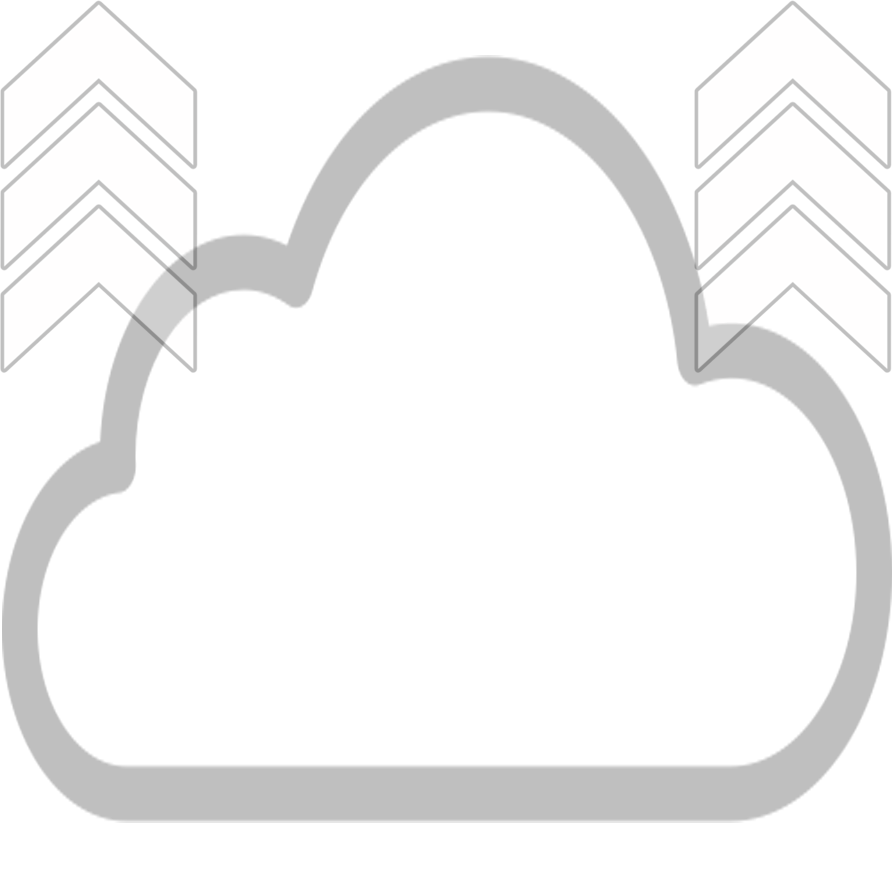
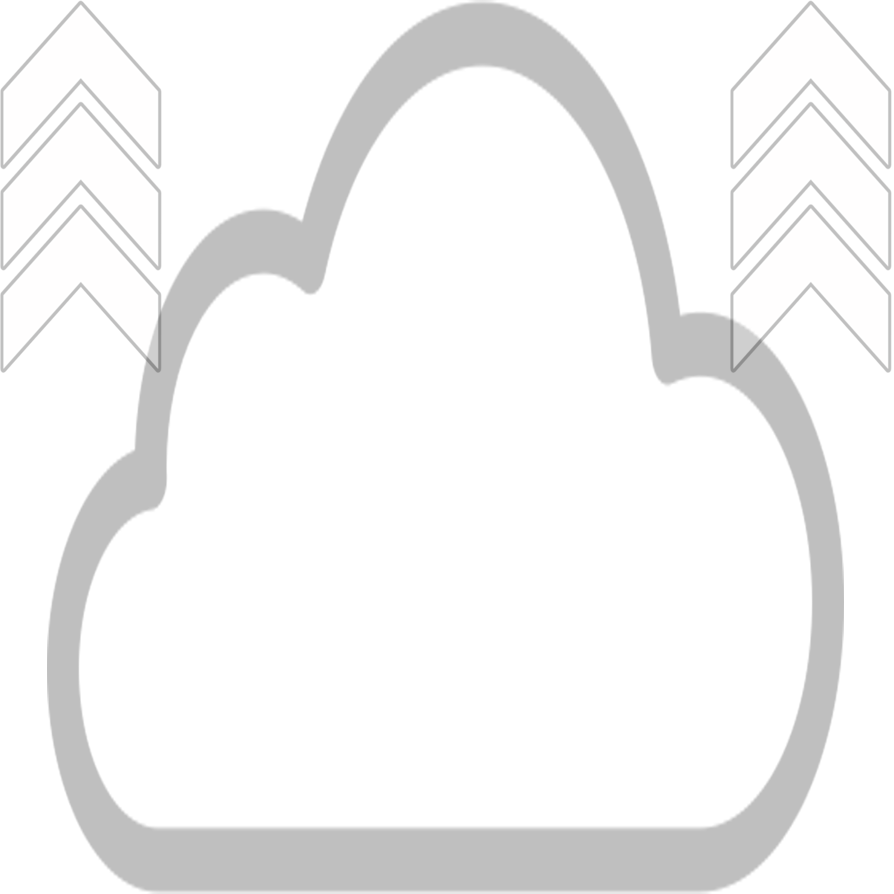
fixing css - images sizes, windows locations, some images updated

diff --git a/style.css b/style.css
@@ -138,8 +138,9 @@ body {
 
   .textMessageEmail {
     /* margin-top: 20px; */
-    padding: 300px 20px 300px 20px;
+    /* padding: 250px 20px 250px 20px; */
     /* border: 2px solid #333; */
+    padding: 55% 10% 50% 10%;
     -moz-border-radius: 10px;
     -webkit-border-radius: 10px;
     border-radius: 10px;
@@ -152,31 +153,37 @@ body {
 
   .textMessageFiles {
     margin: 0px;
-    padding: 80px 80px 80px 80px;
+    /* padding: 60px 80px 80px 80px; */
+    padding: 9% 10% 9% 10%;
     /* border: 2px solid #333; */
     -moz-border-radius: 10px;
     -webkit-border-radius: 10px;
     border-radius: 10px;
     /* margin: 0 0 0 10px; */
     background-image: url('img/png_FilesArrow.png');
-    background-size: 100% 100%;
+    background-size: 70% 100%;
     background-repeat: no-repeat, no-repeat;
-    background-position: right, left;
+    background-position: center;
+    /* background-position: right, left; */
   }
 
   .textMessageCloud {
     margin: 0px;
-    padding: 80px 80px 80px 80px;
+    /* padding: 110px 80px 40px 80px; */
+    padding: 15% 10% 5% 10%;
     /* border: 2px solid #333; */
     -moz-border-radius: 10px;
     -webkit-border-radius: 10px;
     border-radius: 10px;
-    /* margin: 0 0 0 10px; */
-    /*  png_Cloud2Arrow.png; background-image: url('img/png_CloudArrows.png'); */
+    /* margin: 0 0 0 10px; */    
     background-image: url('img/png_Cloud2Arrow.png');
-    background-size: 100% 100%;
+    background-size: 80% 100%;
     background-repeat: no-repeat, no-repeat;
-    background-position: right, left;
+    background-position: center;
+    /* background-position: right, left; */
+    -moz-background-size: cover;
+    -o-background-size: cover;
+   
   }
 
   .imgTxtClear {
@@ -349,11 +356,14 @@ body {
   }
 
   .initMessage {
-    position: absolute;
-    left: 20%;
-    top: 120px;
+    position: relative;
+    /* position: absolute; */
+    /* left: 20%;
+    top: 120px; */
     /* clear: both;
     float: none; */
+    margin-top: 10%;
+    margin-bottom: 10%;
     margin-left: auto;
     margin-right: auto;
     width: 800px;

diff --git a/dragdropcode.js b/dragdropcode.js
@@ -17,7 +17,7 @@
                 'maxItems': 4,
                 'titleTxt': 'Digital medium: transporting documents off-site',
                 'gameTxt': 'Drag and drop the document of each kind </br>to the most appropriate placeholder </br>'+
-                            '(according to MUHCs information classification standards)' + 
+                            '(according to MUHC\'s information classification standards)' + 
                             '</br>when transporting documents off-site',
                 'gameTxtClass' : 'class-digitalMediumMsg',
                 'imgSrc': 
@@ -79,7 +79,7 @@
                 'titleTxt': 'Sending documents by email',
                 'gameTxt': 'Drag and drop the document of each kind </br>' +
                             'to the most appropriate email service </br>' +
-                            '(according to MUHCs information classification standards)',
+                            '(according to MUHC\'s information classification standards)',
                 'gameTxtClass' : 'class-emailsMsg',
                 'imgSrc': 
                     [
@@ -140,7 +140,7 @@
                 'titleTxt': 'Cloud Storage for sharing documents',
                 'gameTxt': 'Drag and drop the document of each kind </br>' +
                             'to the most appropriate cloud service </br>' +
-                            '(according to MUHCs information classification standards)',
+                            '(according to MUHC\'s information classification standards)',
                 'gameTxtClass' : 'class-cloudsMsg',
                 'imgSrc': 
                     [
